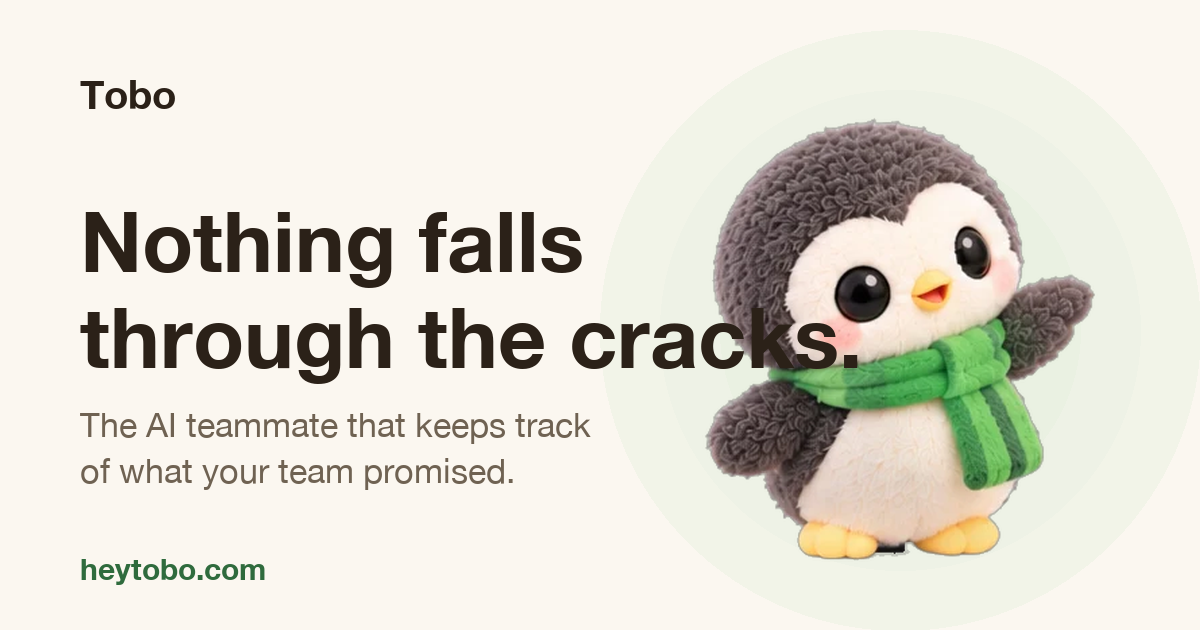
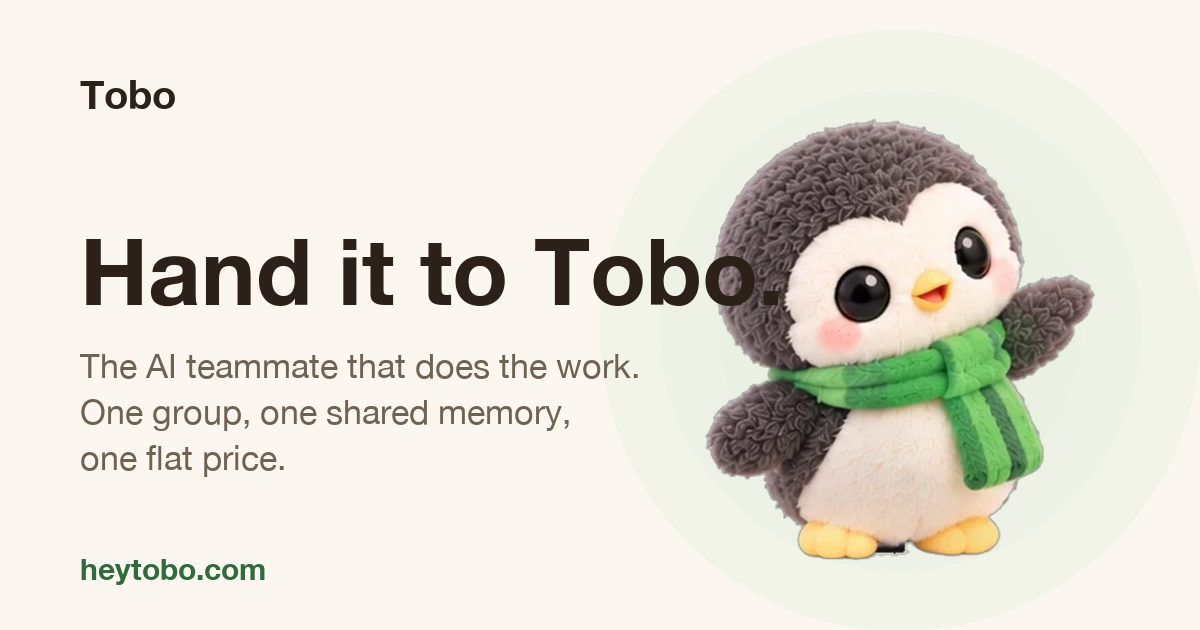
Nouvelle direction : Tobo fait le travail (groupe, mémoire commune, prix fixe)
Claude-Session: https://claude.ai/code/session_018cp9xX5rS11MLNu1yPJ58C

Changed region(s): [[0.0617, 0.3317, 0.7092, 0.7841]]

diff --git a/index.html b/index.html
@@ -3,13 +3,13 @@
 <head>
 <meta charset="utf-8">
 <meta name="viewport" content="width=device-width, initial-scale=1">
-<title>Tobo: the AI teammate that keeps track of what your team promised</title>
-<meta name="description" content="Tobo reads your team's email and keeps one shared list: who promised what, who already replied, and whose turn it is. Flat price, no credits. Private beta.">
+<title>Tobo: the AI teammate that does the work</title>
+<meta name="description" content="Add Tobo to your team's group. He does the work across your tools, remembers what your team knows, and asks before anything he can't undo. Flat price, no credits.">
 <link rel="canonical" href="https://heytobo.com/">
 <meta property="og:type" content="website">
 <meta property="og:url" content="https://heytobo.com/">
-<meta property="og:title" content="Tobo: nothing falls through the cracks">
-<meta property="og:description" content="The AI teammate that keeps track of what your team promised. Who replied, who promised what, whose turn it is. Flat price, no credits.">
+<meta property="og:title" content="Hand it to Tobo">
+<meta property="og:description" content="The AI teammate that does the work. One group for the whole team, one shared memory, one flat price.">
 <meta property="og:image" content="https://heytobo.com/assets/og.png">
 <meta name="twitter:card" content="summary_large_image">
 <meta name="twitter:site" content="@heytobo">
@@ -19,7 +19,7 @@
 <link rel="apple-touch-icon" href="/assets/apple-touch-icon.png">
 <link rel="preload" href="/assets/fonts/geist-latin.woff2" as="font" type="font/woff2" crossorigin>
 <script type="application/ld+json">
-{"@context":"https://schema.org","@type":"SoftwareApplication","name":"Tobo","applicationCategory":"BusinessApplication","operatingSystem":"Web","url":"https://heytobo.com/","description":"The AI teammate that keeps track of what your team promised, so nothing falls through the cracks.","offers":{"@type":"Offer","price":"19","priceCurrency":"USD","description":"Per teammate, per month. No credits."}}
+{"@context":"https://schema.org","@type":"SoftwareApplication","name":"Tobo","applicationCategory":"BusinessApplication","operatingSystem":"Web","url":"https://heytobo.com/","description":"The AI teammate that does the work, for the whole team: one group, one shared memory, one flat price."}
 </script>
 <style>
 @font-face{font-family:"Geist";src:url("/assets/fonts/geist-latin.woff2") format("woff2");font-weight:100 900;font-style:normal;font-display:swap}
@@ -102,6 +102,23 @@ h1{font-size:clamp(2.5rem,6.4vw,4.5rem);line-height:1.02;letter-spacing:-.035em;
 .rise.d1{animation-delay:.08s}.rise.d2{animation-delay:.16s}.rise.d3{animation-delay:.24s}
 @media (prefers-reduced-motion:reduce){*{animation:none!important;transition:none!important}html{scroll-behavior:auto}}
 
+
+.mock.chat{padding:22px 22px 30px}
+.line{display:flex;gap:12px;padding:12px 0;border-top:1px solid #F1E9DA;font-size:15px;line-height:1.45}
+.line p{margin:2px 0 0;color:var(--cocoa)}
+.line .who{font-weight:600;font-size:14px}
+.av-t{flex:0 0 34px;width:34px;height:34px;object-fit:contain}
+.steps{list-style:none;margin:8px 0;padding:0;display:grid;gap:5px;color:var(--muted);font-size:14.5px}
+.steps li{padding-left:24px;position:relative}
+.steps li::before{content:"";position:absolute;left:3px;top:.42em;width:11px;height:6px;border-left:2px solid var(--leaf);border-bottom:2px solid var(--leaf);transform:rotate(-45deg)}
+.ok{display:flex;gap:8px;margin:10px 0 6px}
+.ok span{border-radius:9999px;padding:.5rem 1rem;font-size:13.5px;font-weight:500}
+.ok .b1{background:var(--cocoa);color:var(--cream)}
+.ok .b2{background:#fff;border:1px solid var(--sand)}
+.receipt{font-size:12.5px!important;color:var(--soft)!important}
+.mock.chat .tobo{left:auto;right:-18px;bottom:-30px;width:104px}
+@media (max-width:900px){.mock.chat .tobo{right:6px;bottom:-34px;width:88px}}
+
 /* sections */
 section{padding:64px 0}
 .kicker{font-size:13.5px;font-weight:600;letter-spacing:.08em;text-transform:uppercase;color:var(--leaf);margin:0 0 10px}
@@ -165,7 +182,6 @@ footer{border-top:1px solid var(--sand);padding:26px 0 40px;font-size:14.5px;col
     <nav class="nav-links" aria-label="Main">
       <a href="#how">How it works</a>
       <a href="#rules">Our rules</a>
-      <a href="#pricing">Pricing</a>
       <a class="btn btn-primary btn-sm" href="#join">Join the beta</a>
     </nav>
   </header>
@@ -173,9 +189,9 @@ footer{border-top:1px solid var(--sand);padding:26px 0 40px;font-size:14.5px;col
   <main id="main">
     <div class="hero">
       <div>
-        <span class="pill rise"><i></i>Private beta: 100 seats</span>
-        <h1 class="rise d1">Nothing falls through the cracks.</h1>
-        <p class="lead rise d2">Tobo is the AI teammate that reads your team's email and keeps one shared list: <b>who promised what, who already replied, and whose turn it is.</b></p>
+        <span class="pill rise"><i></i>Private beta</span>
+        <h1 class="rise d1">Hand it to Tobo.</h1>
+        <p class="lead rise d2">Tobo is the AI teammate that does the work. Add him to your team's group: <b>he gets things done across your tools, remembers what your team knows, and asks before anything he can't undo.</b></p>
         <form class="join rise d3" data-join novalidate>
           <label class="skip" for="e1">Work email</label>
           <input id="e1" name="email" type="email" inputmode="email" autocomplete="email" placeholder="you@yourteam.com" required>
@@ -185,35 +201,33 @@ footer{border-top:1px solid var(--sand);padding:26px 0 40px;font-size:14.5px;col
           <button class="btn btn-primary" type="submit">Join the private beta</button>
         </form>
         <p class="status" role="status" aria-live="polite"></p>
-        <p class="note">For teams of 2 to 15 on Gmail and Google Workspace. $19 per teammate, no credits.</p>
+        <p class="note">For teams of 2 to 50. One flat price per teammate, no credits.</p>
       </div>
 
-      <div class="mock rise d2" aria-label="Example: Tobo's bubble inside a Gmail conversation">
+      <div class="mock chat rise d2" aria-label="Example: a team asks Tobo to do a task in their group">
         <div class="mock-top"><span></span><span></span><span></span><em>Example</em></div>
-        <p class="subject">Re: Quote for 500 glass bottles</p>
-        <div class="msg"><div class="av"></div><div class="lines"><b></b><b></b><b></b></div></div>
-        <div class="msg"><div class="av me"></div><div class="lines"><b></b><b></b><b></b></div></div>
-        <div class="msg"><div class="av"></div><div class="lines"><b></b><b></b><b></b></div></div>
-        <div class="bubble">
-          <strong>Tobo</strong>
-          <p><mark>Waiting on you for 4 days:</mark> the supplier asks to confirm quantity and delivery date.</p>
-          <p><mark>Micka promised:</mark> send the updated quote (by Nov 12).</p>
-        </div>
+        <p class="subject"># our-team</p>
+        <div class="line"><div class="av me"></div><div><b class="who">Maya</b><p>@Tobo the glass supplier is still waiting on us. Reply with the new quantities and update the quote?</p></div></div>
+        <div class="line"><img class="av-t" src="/assets/tobo-face.png" alt="" width="34" height="34"><div><b class="who">Tobo</b><p>On it.</p>
+          <ul class="steps"><li>Read the thread with the supplier</li><li>Updated the quote in Drive</li><li>Drafted the reply in your Gmail</li></ul>
+          <p>Ready to send. This one leaves the team, so I need your OK.</p>
+          <div class="ok"><span class="b1">Approve</span><span class="b2">Edit first</span></div>
+          <p class="receipt">3 min · 6 steps · within your plan</p></div></div>
         <img class="tobo" src="/assets/tobo-wave.webp" alt="Tobo, a plush penguin with a green scarf, waving" width="295" height="335">
       </div>
     </div>
   </main>
 </div>
 
-<section class="band" aria-labelledby="catches">
+<section class="band" aria-labelledby="does">
   <div class="wrap">
-    <p class="kicker">What Tobo catches</p>
-    <h2 id="catches">The three things every team loses track of.</h2>
-    <p class="sub">Clients and suppliers live in email. Your team answers from several inboxes. Tobo reads the threads and keeps the list nobody has time to keep.</p>
+    <p class="kicker">What Tobo does</p>
+    <h2 id="does">A teammate, not another chat window.</h2>
+    <p class="sub">You hand Tobo a job in your team's group. He does it in your tools and comes back with the finished thing.</p>
     <div class="grid3">
-      <div class="card"><p class="quote">"Waiting on you for 4 days."</p><h3>Whose turn it is</h3><p>On every thread, Tobo knows if the ball is with your team or with the other side, and for how long.</p></div>
-      <div class="card"><p class="quote">"Micka promised the quote by Nov 12."</p><h3>What was promised</h3><p>A promise made by email gets an owner and a date, so it does not get lost.</p></div>
-      <div class="card"><p class="quote">"Micka already replied yesterday."</p><h3>Who already replied</h3><p>Before you write the same email twice, Tobo tells you a teammate already answered, and when.</p></div>
+      <div class="card"><h3>He does the work</h3><p>Research, reports, spreadsheets, follow-ups, updates in your tools, jobs that run every Monday. From the ask to the finished thing.</p></div>
+      <div class="card"><h3>He remembers what your team knows</h3><p>One shared memory for the group, sorted by project. Everyone can read it, fix it, or erase it.</p></div>
+      <div class="card"><h3>He asks before anything he can't undo</h3><p>Routine work runs on its own. Writing to a client, spending money or deleting something waits for one click.</p></div>
     </div>
   </div>
 </section>
@@ -221,12 +235,12 @@ footer{border-top:1px solid var(--sand);padding:26px 0 40px;font-size:14.5px;col
 <section id="how" aria-labelledby="how-h">
   <div class="wrap">
     <p class="kicker">How it works</p>
-    <h2 id="how-h">No new inbox. Nothing to migrate.</h2>
-    <p class="sub">Tobo sits on top of the Gmail you already use.</p>
+    <h2 id="how-h">One group. The whole team. And Tobo.</h2>
+    <p class="sub">Nothing to configure, no agent to build.</p>
     <div class="grid3">
-      <div class="card step"><span class="num">1</span><div><h3>Create your team</h3><p>Tobo is born with it. Name him, pick his color, invite your teammates with a link.</p></div></div>
-      <div class="card step"><span class="num">2</span><div><h3>Connect Gmail</h3><p>One click each. Every teammate chooses what their inbox shares with the team.</p></div></div>
-      <div class="card step"><span class="num">3</span><div><h3>See what is slipping</h3><p>Inside Gmail, in Slack, and in a chat where every answer links to its source.</p></div></div>
+      <div class="card step"><span class="num">1</span><div><h3>Create your group</h3><p>Tobo is born with it. Name him, pick his color, invite your teammates with a link.</p></div></div>
+      <div class="card step"><span class="num">2</span><div><h3>Connect your tools</h3><p>One click each. What you connect stays yours: Tobo uses it only for work you ask for.</p></div></div>
+      <div class="card step"><span class="num">3</span><div><h3>Hand him work</h3><p>Ask in the group, or put a job on a schedule. Everyone sees what is running and what is done.</p></div></div>
     </div>
   </div>
 </section>
@@ -235,43 +249,15 @@ footer{border-top:1px solid var(--sand);padding:26px 0 40px;font-size:14.5px;col
   <div class="wrap">
     <p class="kicker">Our rules</p>
     <h2 id="rules-h">We went through 1,165 public reviews of AI coworkers.</h2>
-    <p class="sub">The same four complaints kept coming back. Tobo is built around them.</p>
+    <p class="sub">The same complaints kept coming back. Tobo is built around them.</p>
     <table>
       <tr><th scope="col">What people complain about</th><th scope="col">The rule we hold ourselves to</th></tr>
-      <tr><td>Credits that melt, bills nobody can predict</td><td>Flat price. $19 per teammate. No credits, no meter.</td></tr>
-      <tr><td>Memory locked in one channel or one person, and invisible</td><td>One ledger for the team. Everyone sees the same thing. No manager view.</td></tr>
-      <tr><td>Nobody knows who already did what</td><td>Who replied, who promised what, whose turn it is. With the date.</td></tr>
-      <tr><td>"Can I trust it with my inbox?"</td><td>Facts, not your emails. Tobo reads a message, keeps the fact, throws the message away. He never sends anything.</td></tr>
+      <tr><td>Credits that melt, bills nobody can predict</td><td>One flat price per teammate. Every task has a hard cap. No automatic top-ups, ever.</td></tr>
+      <tr><td>Memory locked in one channel or one person, and invisible</td><td>One memory for the whole group. You can read it, edit it, and see where each line came from.</td></tr>
+      <tr><td>"I have to babysit it" or "it did it without asking"</td><td>Routine work runs alone. One click from you for anything that leaves the team, costs money or deletes.</td></tr>
+      <tr><td>"Can I trust it with my tools?"</td><td>What you connect stays yours. Every action is logged with its steps. Nothing is used to train a model.</td></tr>
     </table>
     <p class="source">Reviews of Viktor, Claude Tag, Slackbot, Lindy, Dust and Glean on Reddit, Hacker News, Trustpilot, G2 and Product Hunt, collected on November 10, 2026.</p>
-  </div>
-</section>
-
-<section id="pricing" aria-labelledby="pricing-h">
-  <div class="wrap">
-    <p class="kicker">Pricing</p>
-    <h2 id="pricing-h">One plan. One price. No credits.</h2>
-    <p class="sub">Tobo reads threads, he does not run open-ended tasks. His cost is predictable, so yours is too.</p>
-    <div class="price">
-      <div class="card">
-        <p class="big">$19 <small>per teammate, per month</small></p>
-        <ul class="ticks">
-          <li>$15 when billed yearly</li>
-          <li>Ask Tobo as much as you want</li>
-          <li>Every teammate sees the same ledger</li>
-          <li>Cancel in one click, delete everything in one click</li>
-        </ul>
-      </div>
-      <div class="card founding">
-        <p class="big">$9 <small>for founding teams</small></p>
-        <ul class="ticks">
-          <li>The first 100 seats of the private beta</li>
-          <li>14 days free, no card to start</li>
-          <li>Price locked for 12 months</li>
-          <li>A direct line to the two founders</li>
-        </ul>
-      </div>
-    </div>
   </div>
 </section>
 
@@ -280,12 +266,13 @@ footer{border-top:1px solid var(--sand);padding:26px 0 40px;font-size:14.5px;col
     <p class="kicker">Questions</p>
     <h2 id="faq-h">The honest answers.</h2>
     <div style="max-width:760px;margin-top:26px">
-      <details><summary>Does Tobo keep my emails?</summary><p>No. Tobo reads the text of a work conversation, keeps what he understood (whose turn it is, a one-sentence summary, promises and dates, a link back to the message) and discards the text. Attachments are never opened. Your data is never used to train a model.</p></details>
-      <details><summary>Who can see what?</summary><p>Each teammate chooses what their own inbox shares. What is shared is visible to the whole team in the same way. There is no manager view, no ranking and no activity counter. Tobo talks about the work, never about people.</p></details>
-      <details><summary>Which tools does Tobo work with?</summary><p>Gmail and Google Workspace today, with Slack to ask Tobo questions. Google Calendar and Outlook are next. We finish one tool completely before starting another.</p></details>
-      <details><summary>Does Tobo send emails for me?</summary><p>No. Tobo never sends, edits or deletes anything. He tells you what is slipping. People decide what to do.</p></details>
-      <details><summary>Why does Google show a warning when I connect?</summary><p>During the private beta, Google shows an "unverified app" screen. Google's verification and an independent security assessment come before we open Tobo to everyone.</p></details>
-      <details><summary>Who is behind Tobo?</summary><p>Two founders in France. One of us is 16. We run a small brand together and we built Tobo for our own supplier threads first. We build in public on <a href="https://x.com/heytobo">X</a>.</p></details>
+      <details><summary>Is Tobo available today?</summary><p>Not yet. We are building Tobo in public and opening the private beta team by team. Join the list and we will write to you when your team's seats are ready.</p></details>
+      <details><summary>What can Tobo do?</summary><p>The work you would hand to a capable teammate: research, reports, spreadsheets and slides, follow-ups, updates in the tools you connect, and recurring jobs on a schedule. He has his own computer in the cloud to run code and build files.</p></details>
+      <details><summary>Does Tobo act on his own?</summary><p>For routine work, yes. Anything that leaves the team, costs money or deletes something waits for one click from you. You choose that level for every tool: blocked, ask first, or allowed.</p></details>
+      <details><summary>Who can see what?</summary><p>The group shares one memory and one activity feed, so everyone knows what Tobo is doing and what he knows. What you connect stays yours: Tobo uses your access only for work you asked for. Tobo talks about the work, never ranks people.</p></details>
+      <details><summary>Which tools does Tobo work with?</summary><p>Google Workspace and Slack first. Then Notion, Linear, HubSpot, GitHub and Stripe. After that, any tool that has an API.</p></details>
+      <details><summary>What does it cost?</summary><p>One flat price per teammate. No credits. Every task has a hard cap and shows what it cost. We publish the price before billing starts.</p></details>
+      <details><summary>Who is behind Tobo?</summary><p>Two founders in France. One of us is 16. We build in public on <a href="https://x.com/heytobo">X</a>.</p></details>
     </div>
   </div>
 </section>
@@ -294,7 +281,7 @@ footer{border-top:1px solid var(--sand);padding:26px 0 40px;font-size:14.5px;col
   <div class="wrap">
     <img src="/assets/tobo-happy.webp" alt="Tobo smiling" width="274" height="308">
     <h2 id="join-h">Get a seat in the private beta.</h2>
-    <p class="sub">100 seats. We open them team by team and write to you when yours is ready.</p>
+    <p class="sub">We open it team by team and write to you when your seats are ready.</p>
     <form class="join" data-join novalidate>
       <label class="skip" for="e2">Work email</label>
       <input id="e2" name="email" type="email" inputmode="email" autocomplete="email" placeholder="you@yourteam.com" required>

diff --git a/privacy.html b/privacy.html
@@ -14,27 +14,21 @@
   <a class="back" href="/"><img src="/assets/tobo-face.png" alt="" width="28" height="28">Tobo</a>
   <h1>Privacy Policy</h1>
   <p class="date">Last updated: November 10, 2026</p>
-  <p>Tobo is an AI teammate for small teams. It keeps track of what a team promised by email: who replied, who promised what, and whose turn it is. Tobo is operated by Vocaly, France. Contact: <a href="mailto:hello@heytobo.com">hello@heytobo.com</a>.</p>
+  <p>Tobo is an AI teammate for teams: it does work in the tools a team connects and keeps one shared memory for the group. Tobo is operated by Vocaly, France. Contact: <a href="mailto:hello@heytobo.com">hello@heytobo.com</a>.</p>
 
   <h2>This website</h2>
-  <p>If you join the waitlist, we keep your email address, the team size you selected and the site you came from, to write to you about the private beta. We do not sell or share this list. Write to us to be removed. This website uses no advertising cookies and no third-party trackers.</p>
+  <p>If you join the waitlist, we keep your email address, the team size you selected and the site you came from, to write to you about the private beta. We do not sell or share this list. Write to us to be removed. This website uses no advertising cookies and no third-party trackers. It is served by GitHub Pages and the waitlist is stored by Supabase (United States).</p>
 
-  <h2>What Tobo reads</h2>
-  <p>Each member chooses to connect their own tools and can disconnect them at any time. Tobo never sends, edits or deletes anything in your tools.</p>
+  <h2>The Tobo app</h2>
+  <p>The app is not open yet. Before the private beta opens, this page will list exactly what Tobo can read and do in each tool you connect, who can see it, where it is stored and how to delete it. The rules we already commit to:</p>
   <ul>
-    <li><b>Gmail</b>: the headers of your work emails (sender, recipients, subject, date, message identifiers) and the text of the conversations that involve your team, so that Tobo can tell which ones are still waiting for an answer, from you or from the other side. <b>The text is read, then discarded.</b> Tobo never stores the body of an email, quoted replies or attachments (attachments are not opened, only their file name is seen). What Tobo keeps is what it understood: who has to move next, a one-sentence summary written in its own words, the requests and promises it found, any deadline, and the name, address, company and job title of the people outside your team. Conversations that look private (health, HR, legal disputes, personal finances) are kept as "Private conversation" with no detail. You can turn this reading off at any time in Tools: Tobo then works from headers only. Newsletters, notifications and automatic emails are ignored.</li>
-    <li><b>Google Calendar</b>: your upcoming meetings that include someone outside the team (title, time, attendee).</li>
-    <li><b>Slack</b>: messages in the channels where Tobo was invited, and the questions you ask Tobo.</li>
+    <li>What you connect stays yours. Tobo uses your access only for work you or your group asked for.</li>
+    <li>You choose, for every tool, what Tobo may do: blocked, ask first, or allowed. Anything that leaves the team, costs money or deletes something waits for your approval by default.</li>
+    <li>The group's memory is visible to its members, who can read it, correct it and erase it. Groups are isolated from each other.</li>
+    <li>Every action Tobo takes is logged with its steps.</li>
+    <li>Your data is never used to train a model. Tobo runs on Anthropic's Claude API.</li>
+    <li>You can disconnect a tool and delete your data at any time.</li>
   </ul>
-
-  <h2>Who sees it</h2>
-  <p>Sharing is off by default. Each member decides what their own inbox shares with the team. What is shared is visible to all members of that team in the same way: there is no manager view, no ranking and no activity counter. The person who pays for the team sees nothing more than the others. Teams are fully isolated from each other. Tobo talks about the work, never judges people, and every member can see everything Tobo said about them.</p>
-
-  <h2>How it is stored</h2>
-  <p>Data is stored by Supabase (United States, AWS us-east-1). Access tokens to your tools are encrypted (AES-256-GCM). To read conversations and to answer questions, the relevant text is sent to Anthropic's Claude API, which does not use it to train models. This website is served by GitHub Pages. The application is closed while we move it to new hosting: this page will name the host before the private beta opens.</p>
-
-  <h2>Deleting your data</h2>
-  <p>Disconnecting a tool deletes what Tobo learned from it for you. On the "What Tobo said about me" page you can delete all your data at once. You can also write to <a href="mailto:hello@heytobo.com">hello@heytobo.com</a>.</p>
 
   <h2>Google API Services</h2>
   <p>Tobo's use and transfer of information received from Google APIs adheres to the <a href="https://developers.google.com/terms/api-services-user-data-policy">Google API Services User Data Policy</a>, including the Limited Use requirements. We do not sell this data, use it for advertising, or let humans read it except with your consent, for security, or as required by law.</p>

diff --git a/terms.html b/terms.html
@@ -17,7 +17,7 @@
   <p>Tobo is provided by Vocaly, France (<a href="mailto:hello@heytobo.com">hello@heytobo.com</a>). Tobo is in private beta: it may change, break or stop, and is provided as is, without warranty.</p>
   <p>You may only connect tools and accounts you are allowed to use, and only invite people to a team when sharing that work activity with them is allowed by your organization and by law. Tell your colleagues what Tobo reads before connecting a shared work account.</p>
   <p>You keep all rights to your data. You can disconnect your tools and delete your data at any time. We can suspend an account that abuses the service.</p>
-  <p>Tobo's answers are generated by AI from your team's activity and can be wrong: check the source it cites before acting on something important.</p>
+  <p>Tobo's work and answers are generated by AI and can be wrong: review what it produces and the sources it cites before relying on something important. You stay responsible for the actions you approve.</p>
   <p><b>Price.</b> Paid plans are billed per teammate at a flat price, with no credits and no usage meter. You can ask Tobo as much as you want. To keep the price flat, each team has a monthly AI budget: beyond it, Tobo keeps working on a smaller model instead of stopping. Prices shown on heytobo.com apply when billing starts for your team, and you are told before any charge.</p>
   <p>These terms are governed by French law.</p>
 </main>
